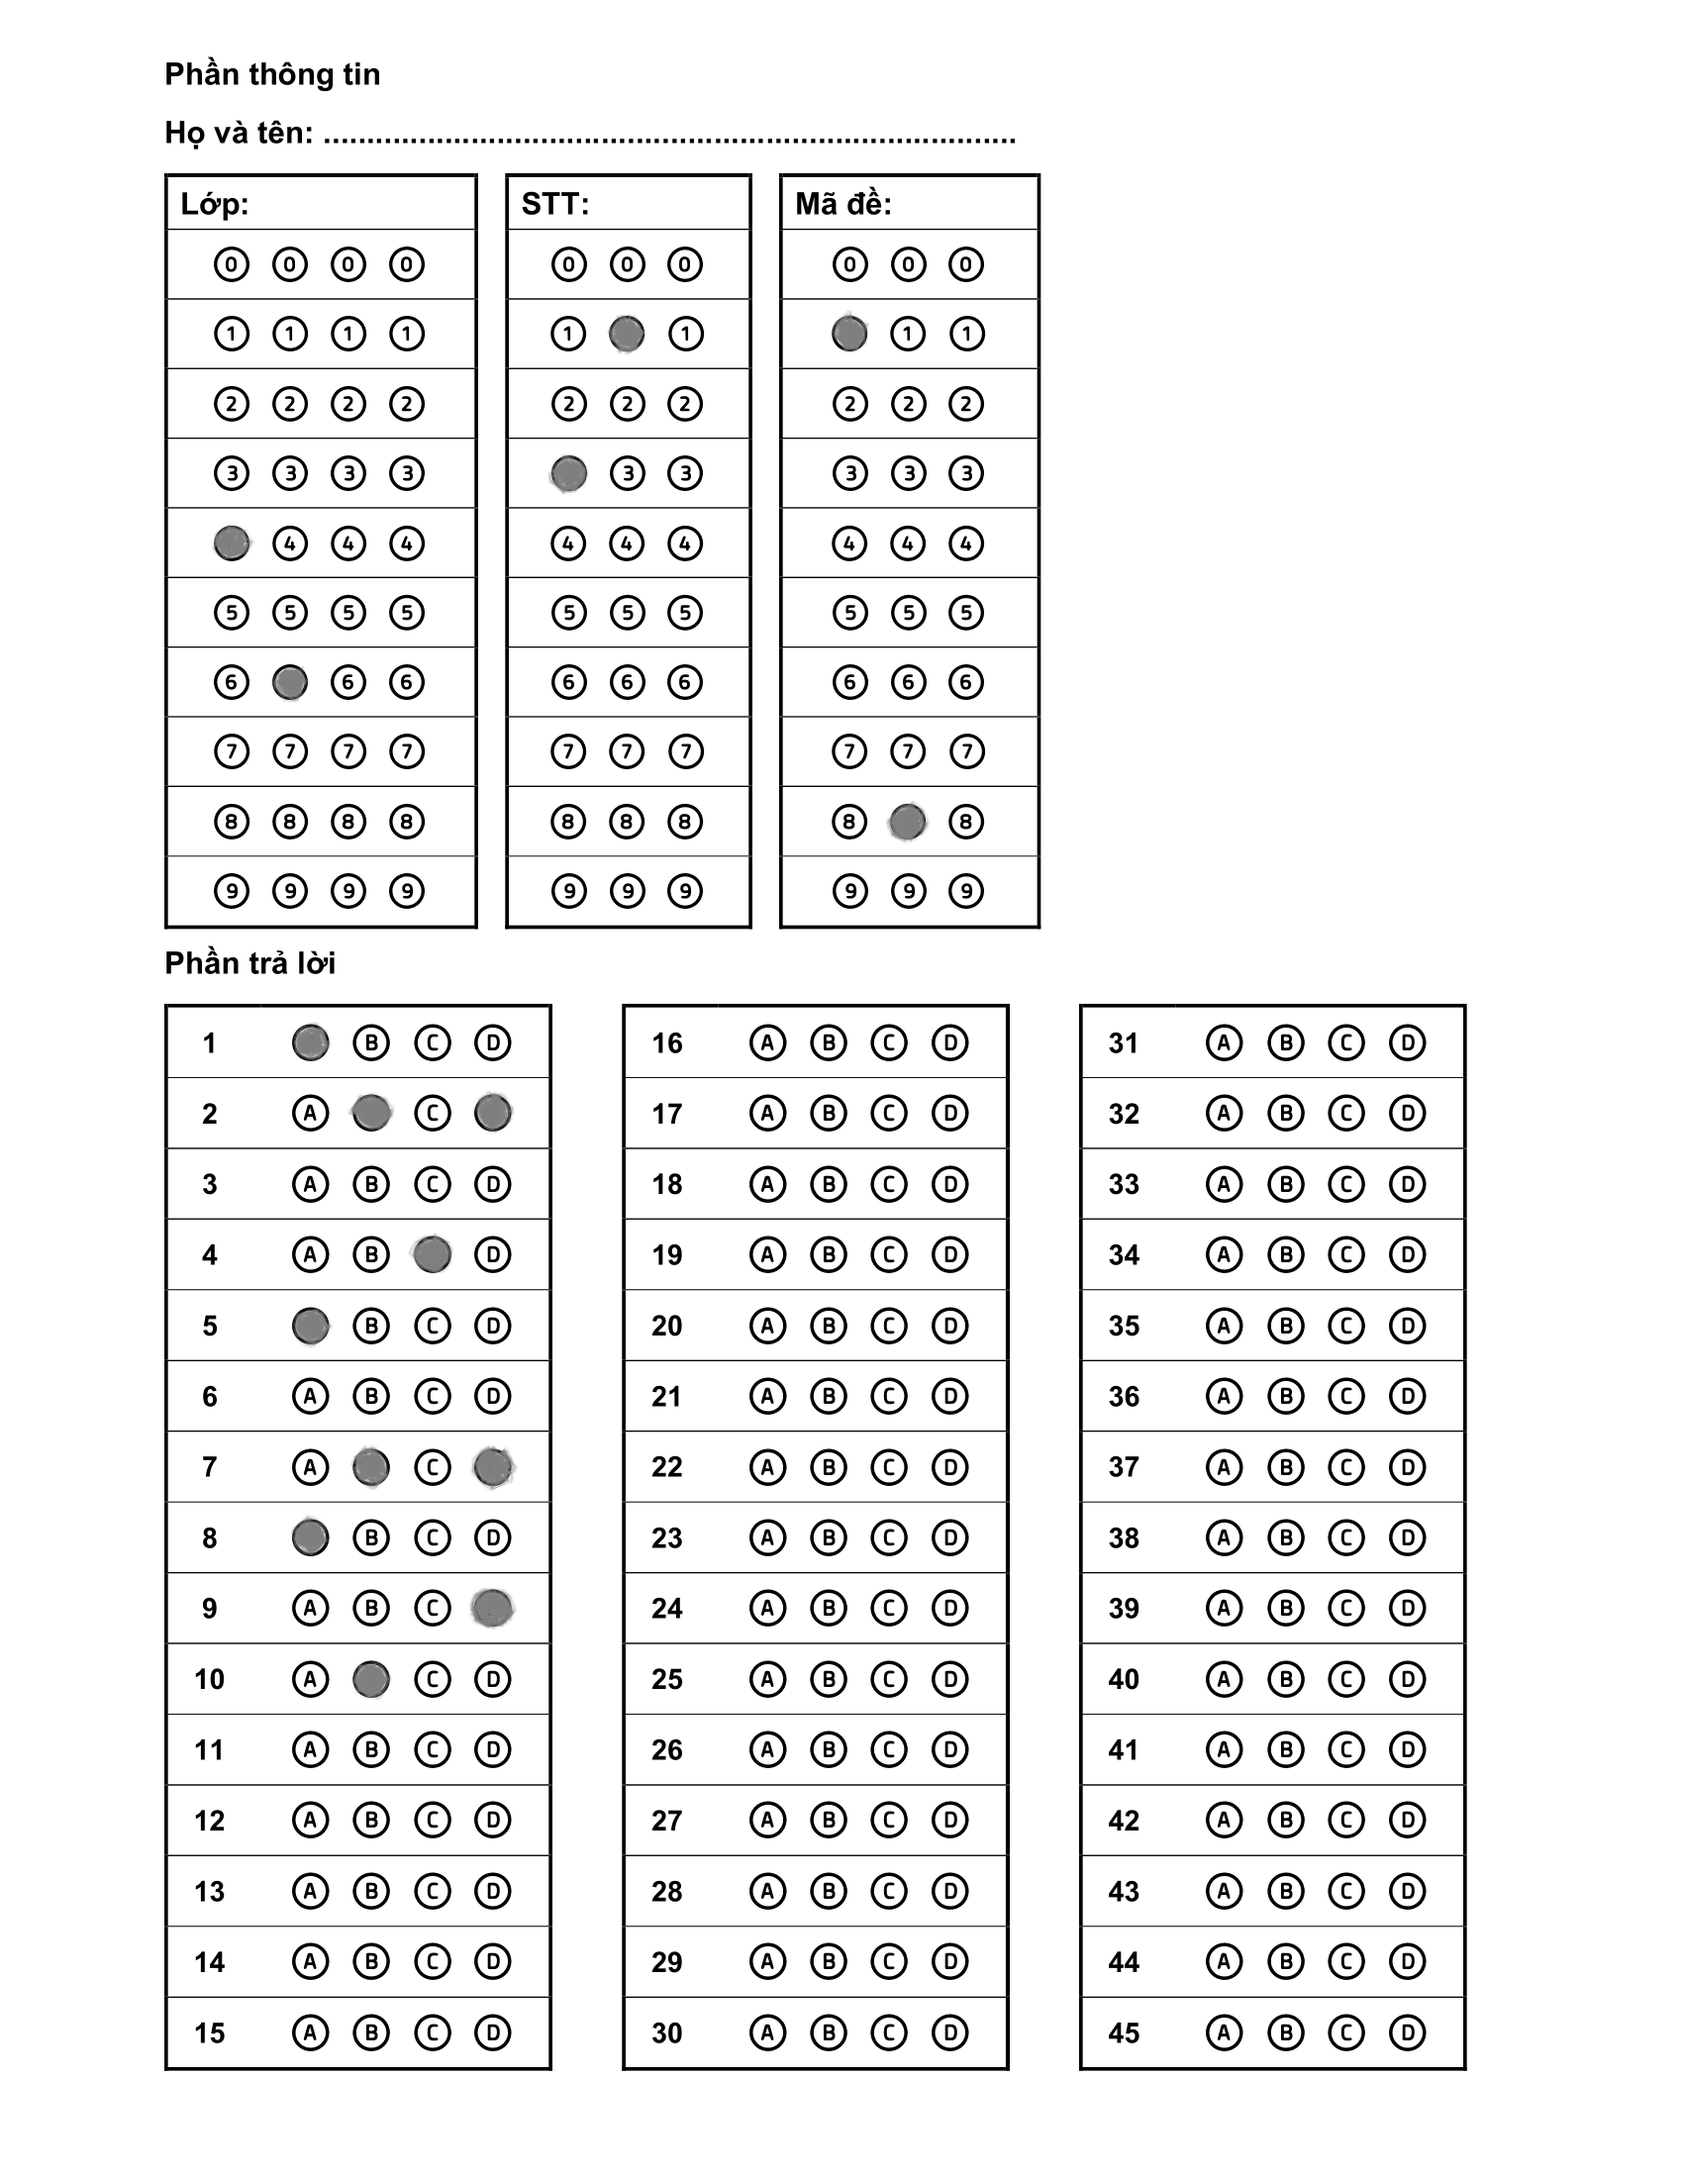
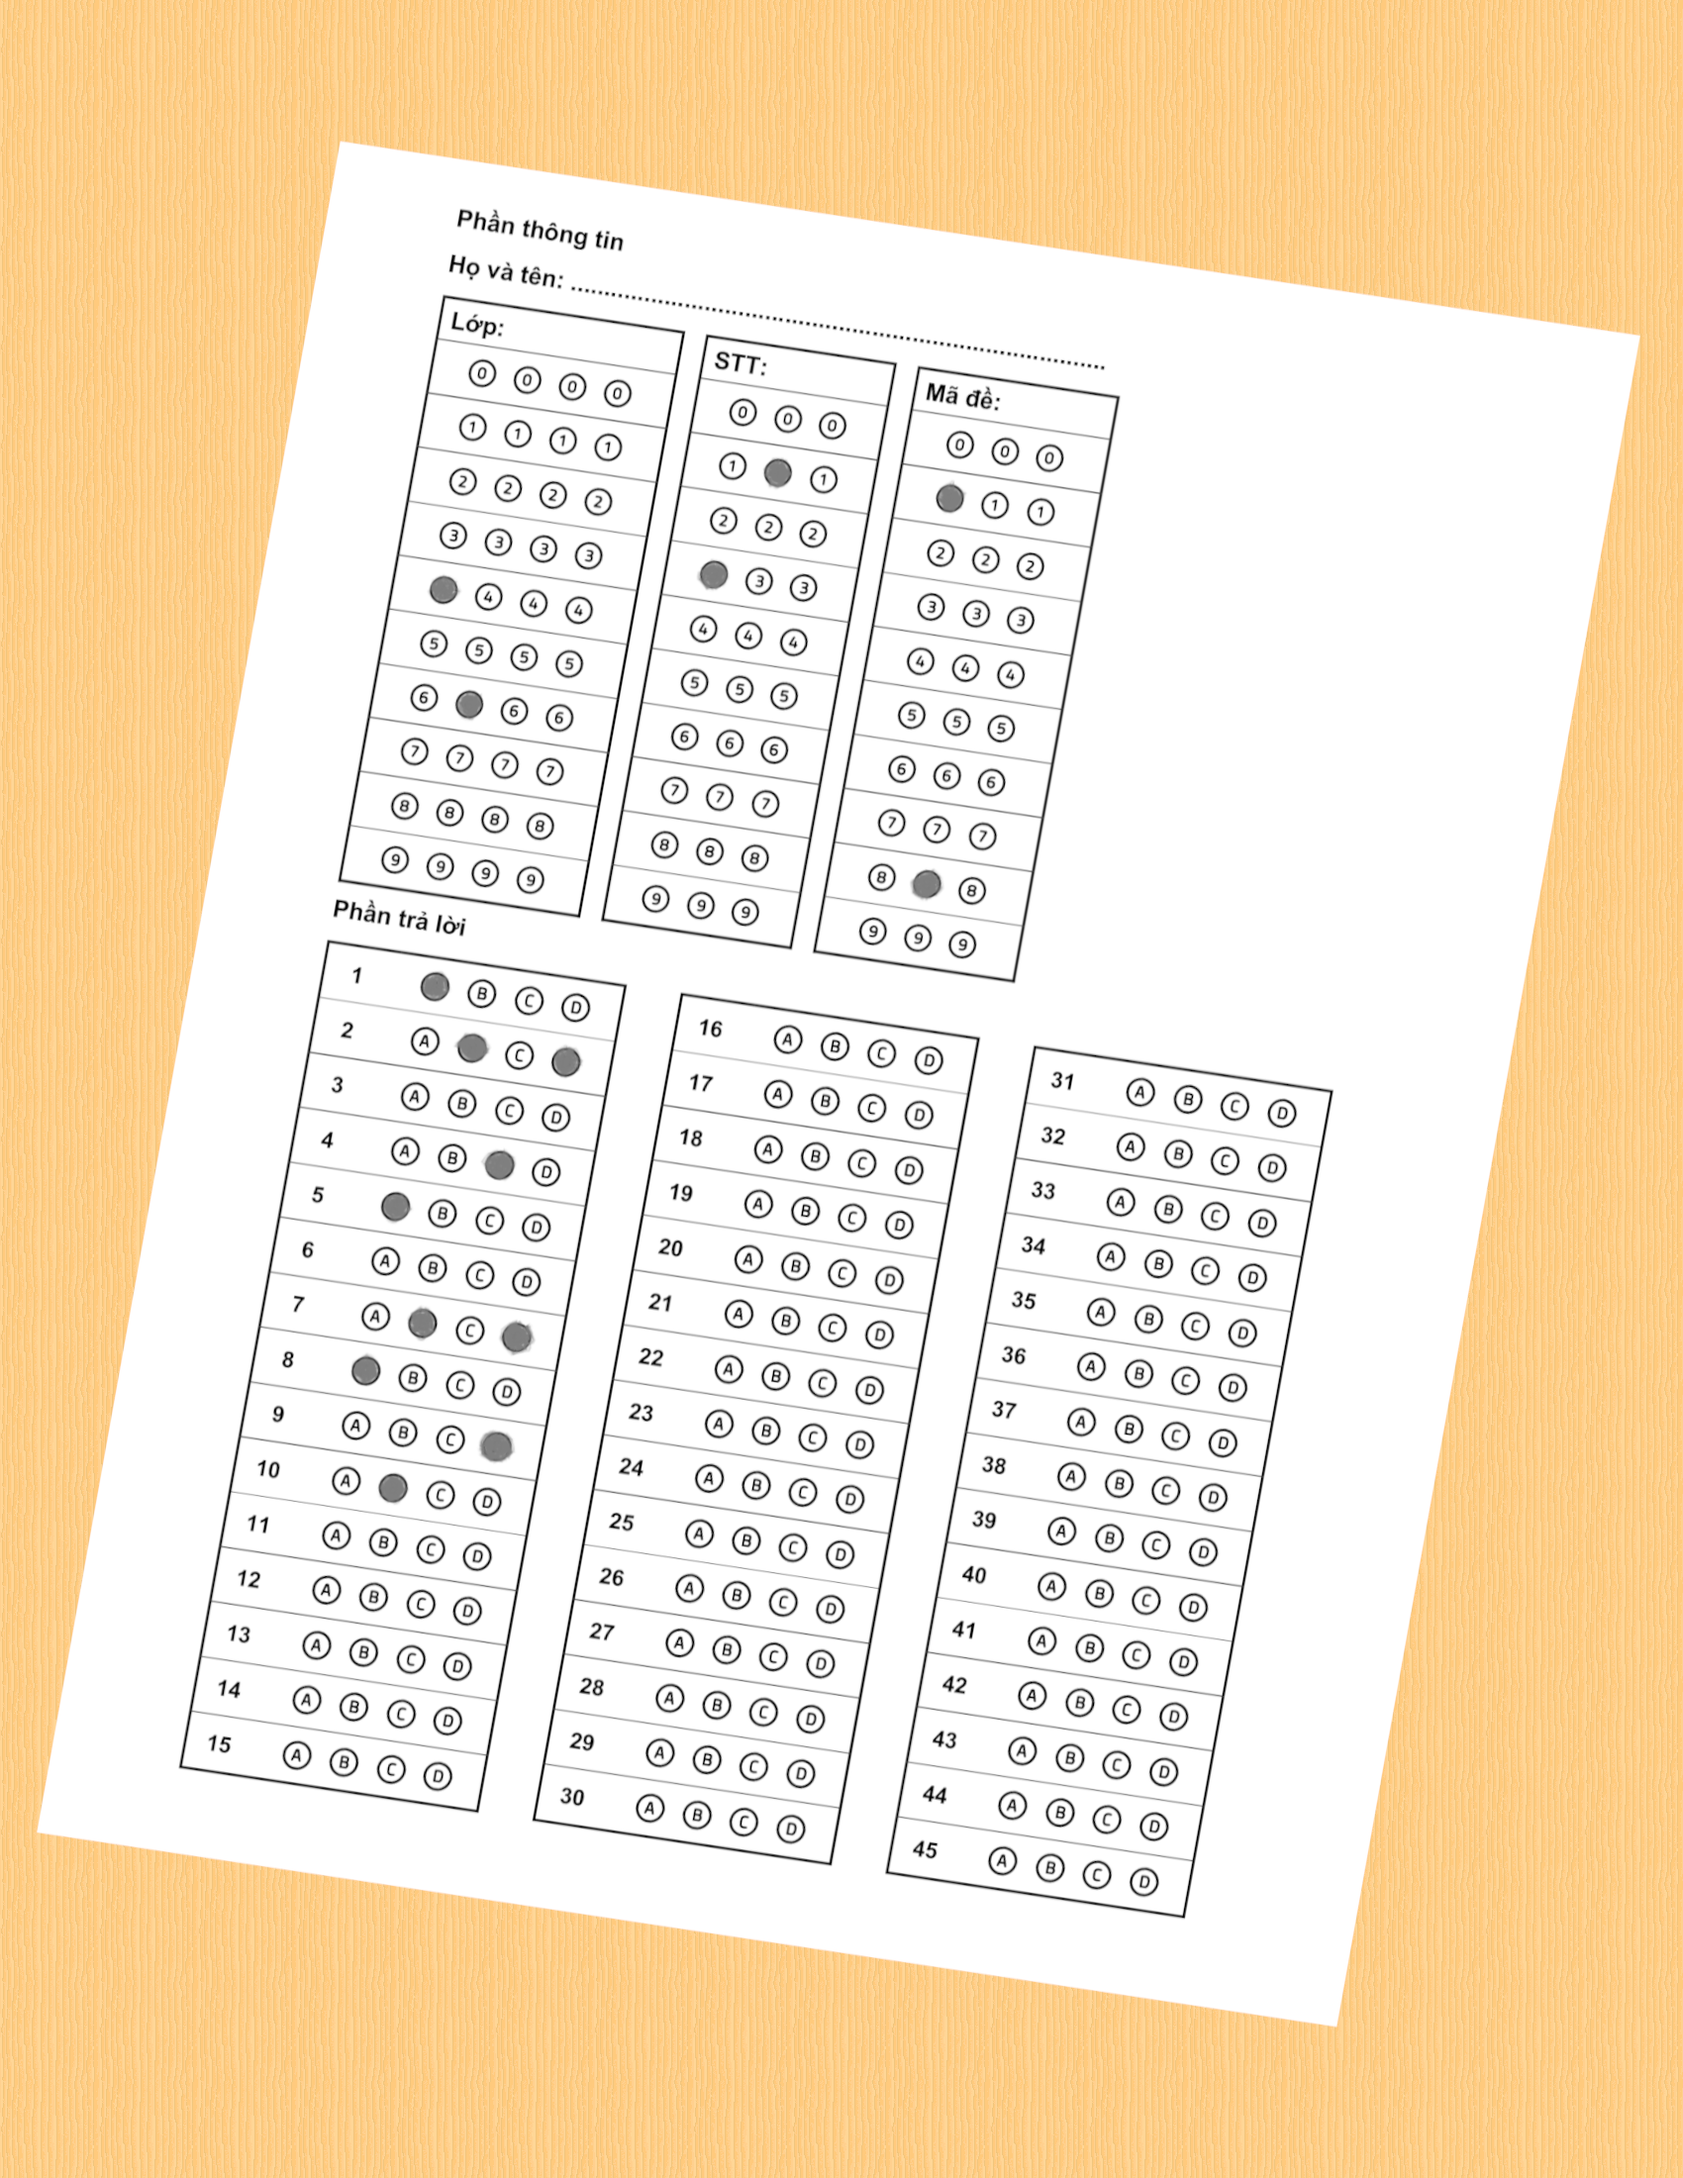
add crop

diff --git a/omr.py b/omr.py
@@ -2,30 +2,80 @@ import cv2
 import utils
 import numpy as np
 from datetime import datetime
+import imutils
+from imutils import perspective
 
 class OMR:
 
     rect_cols = 3
-    top_offset = (5, 50)
-    bottom_offset = (50, 5)
+    top_offset = (10, 50)
+    bottom_offset = (50, 10)
     min_circle_value = 700
     nums_row_in_col = 15
 
     debug=True
     resize_scale = 0.3
     draw_circle=True
+    min_lightness = 250
 
-    def __init__(self, img_file, debug=True):
+    def __init__(self, img, debug=True):
 
-        self.input_img = cv2.imread(img_file)
+        self.input_img = img
         self.debug = debug
+
+        self.crop_img = []
+        self.top_cnts = []
+        self.bottom_cnts = []
+
         if self.input_img is None:
             exit('Input file not found')
 
     def crop(self):
-        pass
+
+        blurred = cv2.GaussianBlur(self.input_img, (5, 5), 0)
+        gray = cv2.cvtColor(blurred, cv2.COLOR_BGR2GRAY)
+        canny = cv2.Canny(gray, 70, 100)
+
+        cnts = cv2.findContours(canny, cv2.RETR_EXTERNAL, cv2.CHAIN_APPROX_SIMPLE)
+        cnts = imutils.grab_contours(cnts)
+
+        if len(cnts) == 0:
+            print('Can\'t find paper')
+            return
+
+        maxCnt = utils.max_contour(cnts)
+        peri = cv2.arcLength(maxCnt[0], True)
+        approx = cv2.approxPolyDP(maxCnt[0], 0.02 * peri, True)
+
+        if len(approx) == 4:
+            self.crop_img = perspective.four_point_transform(self.input_img, approx.reshape(4, 2))
+
+        if len(self.crop_img) == 0:
+            print('Can\'t find paper')
+
+    def get_rects(self):
+
+        if len(self.crop_img) == 0: return
+
+        hsv = cv2.cvtColor(self.crop_img, cv2.COLOR_BGR2HSV)
+        v = hsv[:, :, 2]
+        self.bw = 255 * np.uint8(v < self.min_lightness)
+
+        if self.debug:
+            cv2.imshow('bw', utils.resize(self.bw, self.resize_scale))
+
+        rect_cnts = utils.find_contours(self.bw, 100, 300)
+        if len(rect_cnts) < 6:
+            print("Can't find boxs. Try again")
+            return
+            
+        rect_cnts = utils.group_contours(rect_cnts, self.rect_cols)
+        self.top_cnts = rect_cnts[0]
+        self.bottom_cnts = rect_cnts[1]
 
     def find_information(self, info):
+
+        if len(self.top_cnts) == 0: return
 
         information = ['class_name', 'student_number', 'test_code']
         cols_pattern = [4, 3, 3]
@@ -36,11 +86,12 @@ class OMR:
             return
 
         (x, y, w, h) = cv2.boundingRect(self.top_cnts[info_index])
-        color = self.input_img[y+self.top_offset[1]:y+h-self.top_offset[0], 
+        color = self.crop_img[y+self.top_offset[1]:y+h-self.top_offset[0], 
                     x+self.top_offset[0]:x+w-self.top_offset[0]]
         threshold = self.bw[y+self.top_offset[1]:y+h-self.top_offset[0], 
                     x+self.top_offset[0]:x+w-self.top_offset[0]]
-        cnts = utils.find_contours(threshold, 30, 30)
+
+        cnts = utils.find_contours(threshold, 30, 30, True)
 
         if self.debug:
             cv2.drawContours(color, cnts, -1, (255, 0, 255), 2)
@@ -67,26 +118,24 @@ class OMR:
             
             if self.draw_circle and len(mark_circle_cnts) == 1:
                 cv2.drawContours(color, mark_circle_cnts, -1, (255, 0, 0), 2)
-            
-            if len(mark_circle_cnts) == 0:
-                return_info.append('')
-            else:
-                return_info.append(anwser)
+            if anwser != '': return_info.append(anwser)
 
         if len(return_info) == 0:
-            print("Can't find " + info)
+            return 'not found'
         return ''.join(return_info)
 
     def mark_test(self, anwser_keys):
 
+        if len(self.bottom_cnts) == 0: return
+
         anwsers = []
         question_index = 0
         total_question = len(anwser_keys)
-        point = 0
+        mark = 0
 
         for i in range(0, len(self.bottom_cnts)):
             (x, y, w, h) = cv2.boundingRect(self.bottom_cnts[i])
-            color = self.input_img[y+self.bottom_offset[1]:y+h-self.bottom_offset[1], 
+            color = self.crop_img[y+self.bottom_offset[1]:y+h-self.bottom_offset[1], 
                         x+self.bottom_offset[0]:x+w-self.bottom_offset[1]]
             threshold = self.bw[y+self.bottom_offset[1]:y+h-self.bottom_offset[1], 
                         x+self.bottom_offset[0]:x+w-self.bottom_offset[1]]
@@ -124,7 +173,7 @@ class OMR:
                     print('Question {} anwser {}'.format(question_index, anwser))
                     anwsers.append(anwser)
                     if anwser_keys[row] == anwser: 
-                        point += 1
+                        mark += 1
                     if self.draw_circle: cv2.drawContours(color, mark_circle_cnts, -1, (255, 0, 0), 2)
                 else:
                     print('Question {} empty'.format(question_index))
@@ -139,61 +188,76 @@ class OMR:
 
         if len(anwsers) == 0 or len(anwsers) != total_question:
             print("Can't mark test")
-        return round(point * 10 / total_question, 1)
+        return round(mark * 10 / total_question, 1)
 
     def run(self, anwser_keys):
 
         self.crop()
+        self.get_rects()
 
-        hsv = cv2.cvtColor(self.input_img, cv2.COLOR_BGR2HSV)
-        v = hsv[:, :, 2]
-        self.bw = 255 * np.uint8(v < 150)
+        result = []
 
-        if self.debug:
-            cv2.imshow('BW', utils.resize(self.bw, self.resize_scale))
-            cv2.waitKey(0)
+        if len(self.crop_img) > 0 and len(self.top_cnts) > 0 and len(self.bottom_cnts) > 0:
 
-        rect_cnts = utils.find_contours(self.bw, 100, 300)
-        if len(rect_cnts) < 6:
-            print("Can't find boxs. Try again")
-            return
-            
-        rect_cnts = utils.group_contours(rect_cnts, self.rect_cols)
-        self.top_cnts = rect_cnts[0]
-        self.bottom_cnts = rect_cnts[1]
+            class_name = self.find_information('class_name')
+            student_number = self.find_information('student_number')
+            test_code = self.find_information('test_code')
 
-        class_name = self.find_information('class_name')
-        student_number = self.find_information('student_number')
-        test_code = self.find_information('test_code')
+            mark = self.mark_test(anwser_keys)
 
-        point = self.mark_test(anwser_keys)
+            result = self.crop_img.copy()
 
-        x = int(self.input_img.shape[1] * 0.65)
-        y = 60
+            x = int(result.shape[1] * 0.65)
+            y = 60
 
-        cv2.putText(self.input_img, 'Class Name: ' + class_name, (x, y), 
-            cv2.FONT_HERSHEY_SIMPLEX, 1, (255, 0, 0), 2)
-        cv2.putText(self.input_img, 'Student Number: ' + student_number, (x, y + 50), 
-            cv2.FONT_HERSHEY_SIMPLEX, 1, (255, 0, 0), 2)
-        cv2.putText(self.input_img, 'Test Code: ' + test_code, (x, y + 100), 
-            cv2.FONT_HERSHEY_SIMPLEX, 1, (255, 0, 0), 2)
-        cv2.putText(self.input_img, 'Point: ' + str( point ), (x, y + 150), 
-            cv2.FONT_HERSHEY_SIMPLEX, 1, (255, 0, 0), 2)
-        cv2.putText(self.input_img, 'Date: ' + datetime.now().strftime('%c'), (x, y + 200), 
-            cv2.FONT_HERSHEY_SIMPLEX, 1, (255, 0, 0), 2)
+            cv2.putText(result, 'Class Name: ' + class_name, (x, y), 
+                cv2.FONT_HERSHEY_SIMPLEX, 0.7, (255, 0, 0), 2)
+            cv2.putText(result, 'Student Number: ' + student_number, (x, y + 50), 
+                cv2.FONT_HERSHEY_SIMPLEX, 0.7, (255, 0, 0), 2)
+            cv2.putText(result, 'Test Code: ' + test_code, (x, y + 100), 
+                cv2.FONT_HERSHEY_SIMPLEX, 0.7, (255, 0, 0), 2)
+            cv2.putText(result, 'Mark: ' + str( mark ), (x, y + 150), 
+                cv2.FONT_HERSHEY_SIMPLEX, 0.7, (255, 0, 0), 2)
+            cv2.putText(result, 'Date: ' + datetime.now().strftime('%c'), (x, y + 200), 
+                cv2.FONT_HERSHEY_SIMPLEX, 0.7, (255, 0, 0), 2)
 
-        resize = utils.resize(self.input_img, self.resize_scale)
-        while True:
-            cv2.imshow('Result', resize)
-            k = cv2.waitKey(1)
-            if k == ord('s'):
-                filename = 'results/result-{}.jpg'.format(datetime.now().strftime('%c').replace(':', '.'))
-                cv2.imwrite(filename, self.input_img)
-                break
-            if k == 27:
-                break
-        cv2.destroyAllWindows()
+            return utils.resize(result, self.resize_scale)
+        return result
 
-omr = OMR('template-test.png')
-omr.run(['A', 'A', 'B', 'C', 'D', 'C', 'A', 'A', 'C', 'D'])
+img = cv2.imread('template-test.png')
+omr = OMR(img, False)
+omr.resize_scale = 0.5
+result = omr.run(['A', 'A', 'B', 'C', 'D', 'C', 'A', 'A', 'C', 'D'])
 
+while True:
+
+    if len(result) > 0:
+        cv2.imshow('Result', result)
+        k = cv2.waitKey(1)
+        if k == ord('s'):
+            filename = 'results/result-{}.jpg'.format(datetime.now().strftime('%c').replace(':', '.'))
+            cv2.imwrite(filename, result)
+            break
+    if k == 27:
+        break
+
+cv2.destroyAllWindows()
+
+# cam = cv2.VideoCapture(0)
+
+# while True:
+#     ret, frame = cam.read()
+#     omr = OMR(frame, False)
+#     omr.resize_scale = 0.5
+#     result = omr.run(['A', 'A', 'B', 'C', 'D', 'C', 'A', 'A', 'C', 'D'])
+#     if len(result) > 0: cv2.imshow('check', result)
+#     cv2.imshow('cam', frame)
+#     key = cv2.waitKey(100)
+#     if key == 27:
+#         break
+#     if key == ord('s') and len(result) > 0:
+#         filename = 'results/result-{}.jpg'.format(datetime.now().strftime('%c').replace(':', '.'))
+#         cv2.imwrite(filename, result)
+#         break
+# cam.release()
+# cv2.destroyAllWindows()

diff --git a/utils.py b/utils.py
@@ -9,6 +9,7 @@ def resize(img, scale = 0.5):
     return cv2.resize(img, dim, interpolation = cv2.INTER_AREA)
 
 def group_contours(cnts, cols):
+    if len(cnts) == 0: return []
     rows = len(cnts) // cols
     sort_cnts = contours.sort_contours(cnts, 'top-to-bottom')[0]
     return [contours.sort_contours(sort_cnts[i * cols:(i + 1) * cols])[0] for i in range(0, rows)]
@@ -23,7 +24,7 @@ def find_contours(img, filterW = 100, filterH = 100, circle=False):
         if w >= filterW and h >= filterH:
             if circle == False:
                 match_cnts.append(c)
-            elif 0.7 <= w / h <= 1.2: 
+            elif abs(w - h) <= 4: 
                 match_cnts.append(c)
             else: continue
     return match_cnts
@@ -31,3 +32,11 @@ def find_contours(img, filterW = 100, filterH = 100, circle=False):
 def imshow_contour(img, contour, window_name):
     (x, y, w, h) = cv2.boundingRect(contour)
     cv2.imshow(window_name, img[y:y+h, x:x+w])
+
+def max_contour(cnts):
+    maxCnt = (cnts[0], cv2.boundingRect(cnts[0]))
+    for c in cnts[1:]:
+        (x, y, w, h) = cv2.boundingRect(c)
+        if w > maxCnt[1][2] and h > maxCnt[1][3]:
+            maxCnt = (c, (x, y, w, h))
+    return maxCnt
